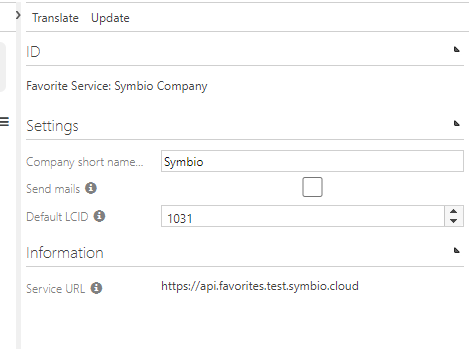
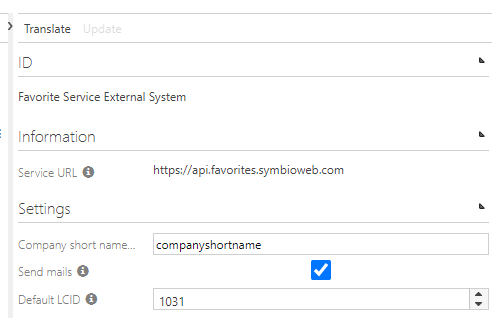
Update Favorite Service URL and images (#252)

diff --git a/docs/admin/services/favorite-service/installation-manual.md b/docs/admin/services/favorite-service/installation-manual.md
@@ -5,7 +5,7 @@
 
 1. Go to the **_sysadmin** page's "Extended Configuration"
 2. Create a new external system type for the Favorite Service 
-3. **The syex file is now provided by the service via this url**: https://api.favorites.symbio.cloud/api/configuration 
+3. **The syex file is now provided by the service via this url**: https://api.favorites.symbioweb.com/api/configuration 
 4. Enter the configuration url in the settings menu and press OK: 
 ![system-type-settings](media/favorite-service-system-type.png)
 5. Activate the external system type
